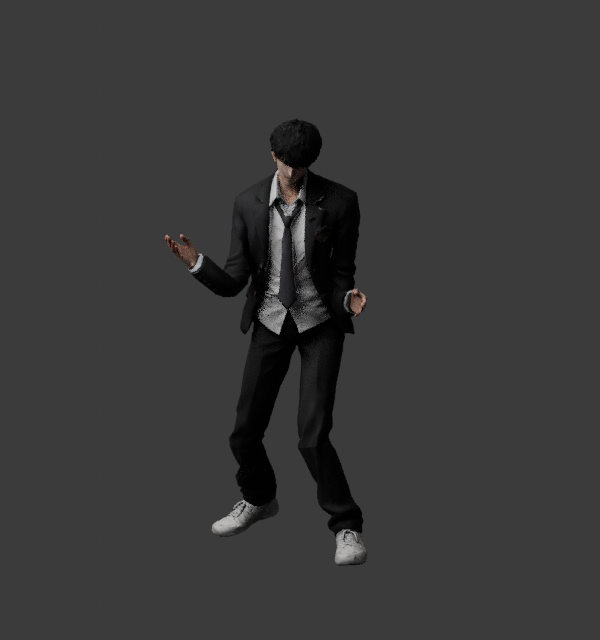
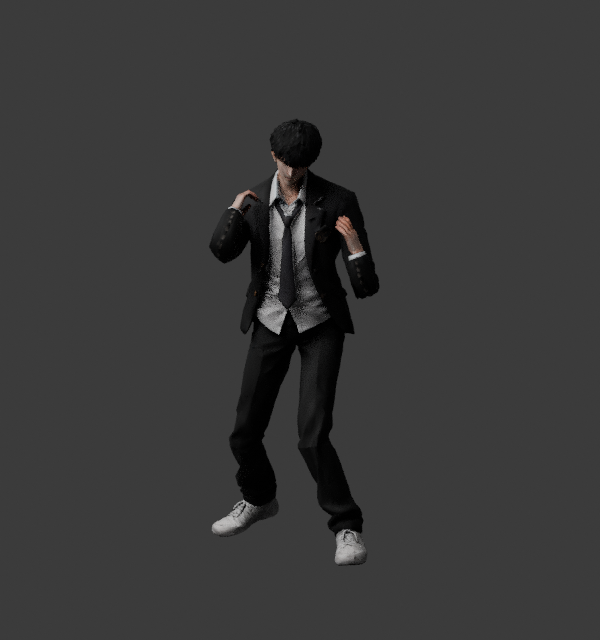
Keep both guarded hands near jaw with anatomical arm IK

Changed region(s): [[0.27, 0.2812, 0.45, 0.4688], [0.54, 0.3438, 0.63, 0.5], [0.42, 0.375, 0.48, 0.5]]

diff --git a/Assets/Scripts/ImportedPlayerView.cs b/Assets/Scripts/ImportedPlayerView.cs
@@ -304,9 +304,25 @@ public sealed class ImportedPlayerView : MonoBehaviour
     {
         guardWeight = inPreview ? 1 : Mathf.MoveTowards(guardWeight, 1, Time.deltaTime * 6);
         Set("LeftUpperArm", -58 * guardWeight, true); Set("RightUpperArm", -58 * guardWeight, true);
-        joints["LeftUpperArm"].Bone.rotation = Quaternion.AngleAxis(hookSide * 25 * guardWeight, model.forward) * joints["LeftUpperArm"].Bone.rotation;
-        joints["RightUpperArm"].Bone.rotation = Quaternion.AngleAxis(-hookSide * 25 * guardWeight, model.forward) * joints["RightUpperArm"].Bone.rotation;
         Set("LeftForearm", -100 * guardWeight, true); Set("RightForearm", -100 * guardWeight, true);
+        for (int i = 0; i < 2; i++)
+        {
+            string side = i == 0 ? "Left" : "Right";
+            Transform upper = joints[side + "UpperArm"].Bone, elbow = joints[side + "Forearm"].Bone, hand = i == 0 ? leftHand : rightHand;
+            float sign = Mathf.Sign((i == 0 ? leftFootHome : rightFootHome).x);
+            Vector3 target = actor.transform.position + model.rotation * new Vector3(sign * .17f, .60f - lastDrop, .23f);
+            target = Vector3.Lerp(hand.position, target, guardWeight);
+            Vector3 origin = upper.position, delta = target - origin;
+            float a = Vector3.Distance(origin, elbow.position), b = Vector3.Distance(elbow.position, hand.position);
+            float d = Mathf.Clamp(delta.magnitude, Mathf.Abs(a - b) + .001f, a + b - .001f);
+            Vector3 direction = delta.normalized;
+            Vector3 bend = model.rotation * new Vector3(sign * .35f, -1, .1f);
+            Vector3 pole = Vector3.ProjectOnPlane(bend, direction).normalized;
+            float along = (a * a + d * d - b * b) / (2 * d);
+            Vector3 knee = origin + direction * along + pole * Mathf.Sqrt(Mathf.Max(0, a * a - along * along));
+            upper.rotation = Quaternion.FromToRotation(elbow.position - origin, knee - origin) * upper.rotation;
+            elbow.rotation = Quaternion.FromToRotation(hand.position - elbow.position, origin + direction * d - elbow.position) * elbow.rotation;
+        }
         leftHand.localRotation = leftHandRest * Quaternion.AngleAxis(-hookSide * 40, leftHandAxis);
         rightHand.localRotation = rightHandRest * Quaternion.AngleAxis(hookSide * 40, rightHandAxis);
     }

diff --git a/Tools/Motion/verify_fighting_hook.py b/Tools/Motion/verify_fighting_hook.py
@@ -33,7 +33,7 @@ def pose(p):
  for n,deg in [('Spine',8*(1-ext)),('Chest',3*(1-ext))]:
   b=bones[n];b.rotation_quaternion=Quaternion(b.bone.matrix_local.to_quaternion().inverted()@Vector((1,0,0)),math.radians(deg))
  for side in ['Left','Right']:
-  rotate(side+'UpperArm',Quaternion(yq@Vector((0,-1,0)),math.radians(-25 if side=='Left' else 25)))
+  sign=1 if side=='Left' else -1;names=[side+'UpperArm',side+'Forearm',side+'Hand'];a,b,c=[pos(n) for n in names];target=actor+yq@Vector((sign*.17,-.23,.60-drop));u=(b-a).length;l=(c-b).length;delta=target-a;d=max(abs(u-l)+.001,min(u+l-.001,delta.length));direction=delta.normalized();bend=yq@Vector((sign*.35,-.1,-1));pole=(bend-direction*bend.dot(direction)).normalized();along=(u*u+d*d-l*l)/(2*d);k=a+direction*along+pole*math.sqrt(max(0,u*u-along*along));rotate(names[0],(b-a).rotation_difference(k-a));b=pos(names[1]);c=pos(names[2]);rotate(names[1],(c-b).rotation_difference(a+direction*d-b))
  for side in ['Left','Right']:
   b=bones[side+'Hand'];long=(bones[side+'Hand'].head-bones[side+'Forearm'].head).normalized();b.rotation_quaternion=Quaternion(b.bone.matrix_local.to_quaternion().inverted()@long,math.radians(40 if side=='Left' else -40))
  bpy.context.view_layer.update();left=home['Left'].copy();left.x*=2;left.y-=.20
